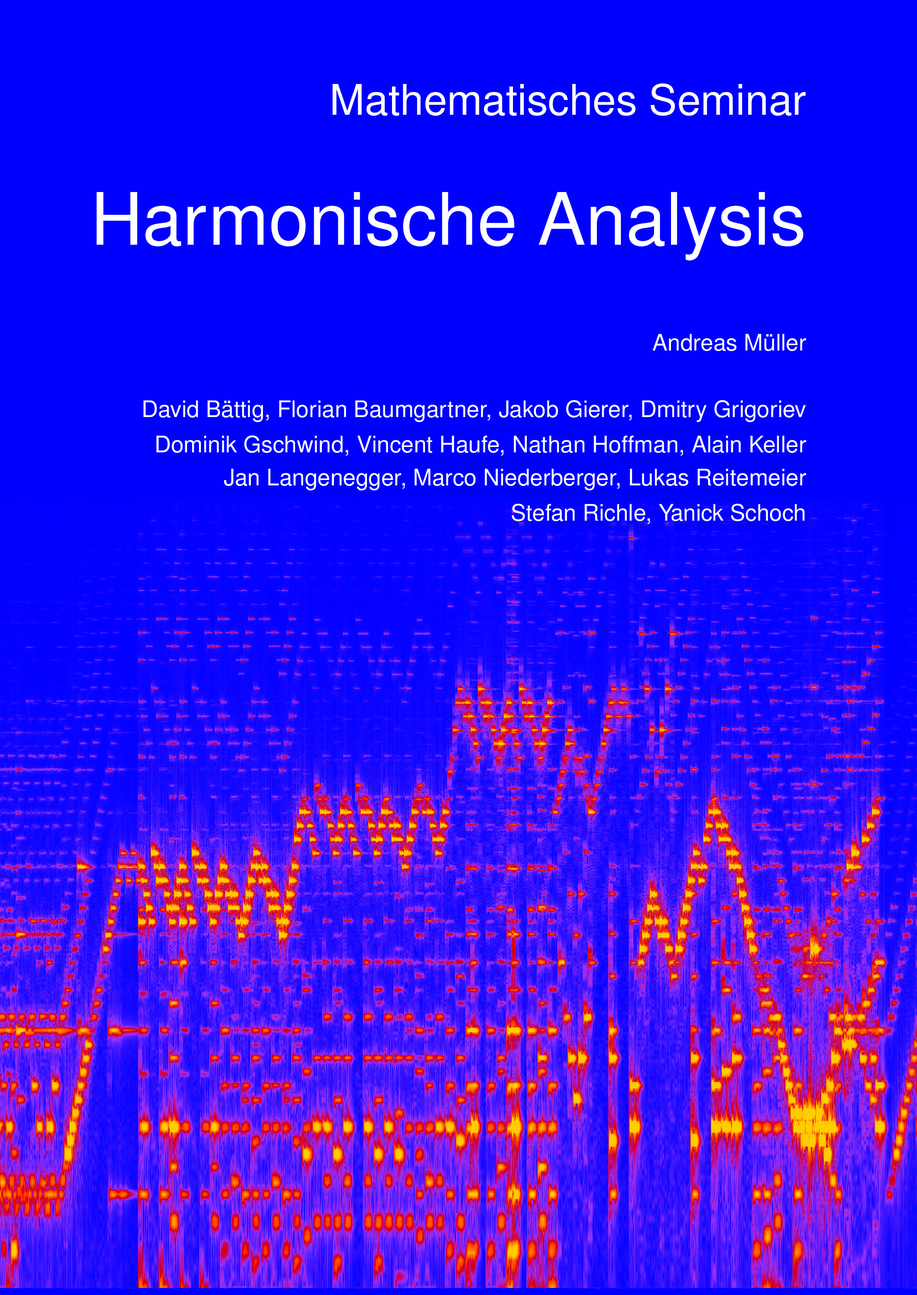
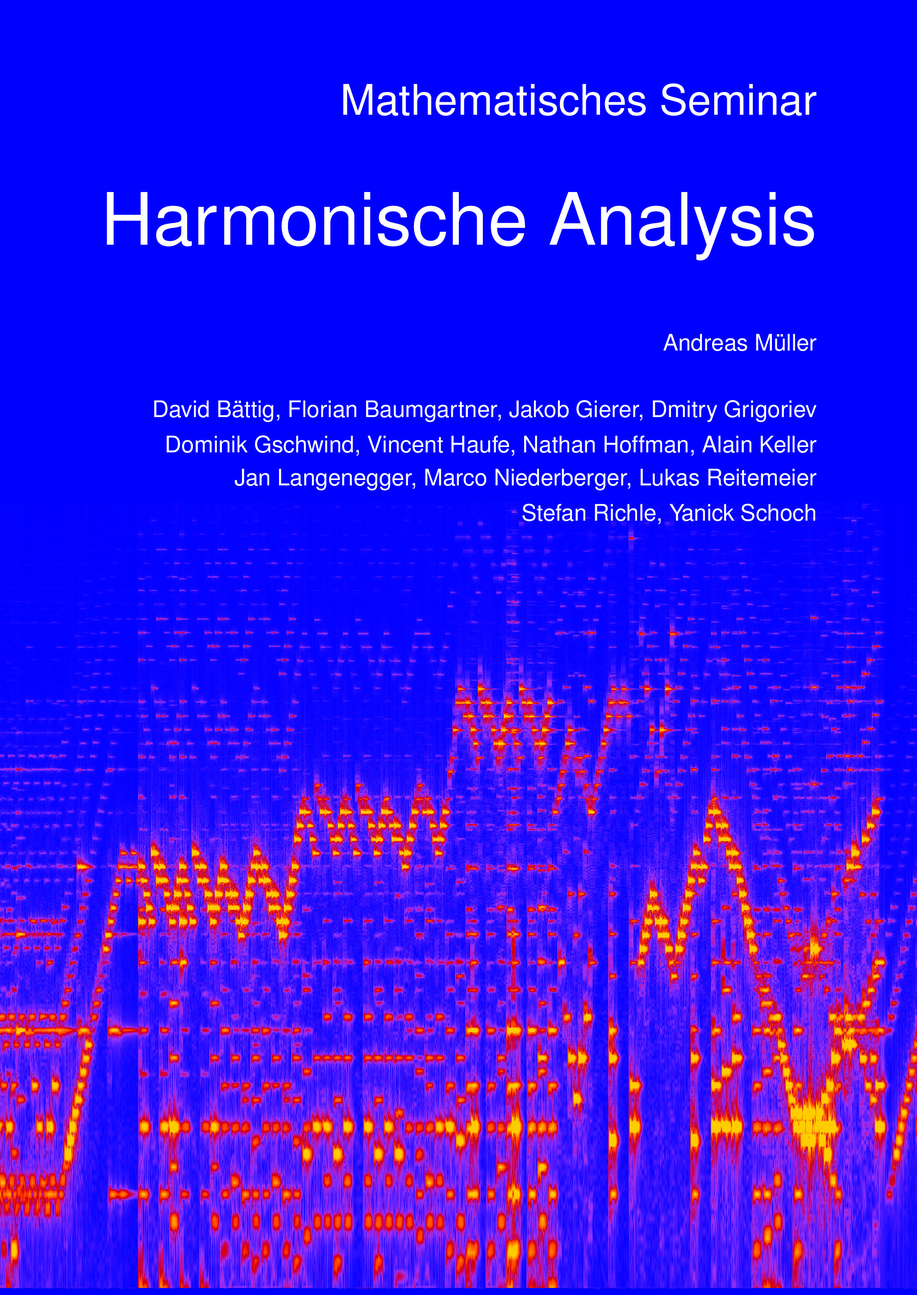
fix image, update cover

diff --git a/buch/chapters/010-skalarprodukt/images/normbeispiele.tex b/buch/chapters/010-skalarprodukt/images/normbeispiele.tex
@@ -59,10 +59,15 @@
 		\node[color=red] at (4.3,1.5) [above] {$\|f\|_1$};
 		\draw[->,color=red,line width=0.7pt] (4.3,1.5) -- (4.3,0.65);
 	\end{scope}
-	\node[color=red] at (5.5,5.5) [below left]
+	\node[color=red] at (5.5,4.5) [below left]
 		{$\displaystyle
 			f(x) = \frac{1}{x}
 		$};
+	\def\x{0.61}
+	\coordinate (A) at ({2*\x},{2/(\x*\x)});
+	\coordinate (B) at ({1.9},{2/(\x*\x)+0.1});
+	\draw[color=blue,line width=0.3pt] (A) -- (B);
+	\node[color=blue] at (B) [right] {$\displaystyle f(x)^2=\frac{1}{x^2}$};
 \end{scope}
 
 \end{tikzpicture}

diff --git a/cover/buchcover.tex b/cover/buchcover.tex
@@ -30,7 +30,7 @@
 \begin{tikzpicture}[>=latex, scale=1]
 \tikzmath{
 	real \ruecken, \einschlag, \gelenk, \breite, \hoehe;
-	\ruecken = 2.5;
+	\ruecken = 2.7;
 	\einschlag = 1.6;
 	\gelenk = 0.8;
 	\breite = 16.7;
